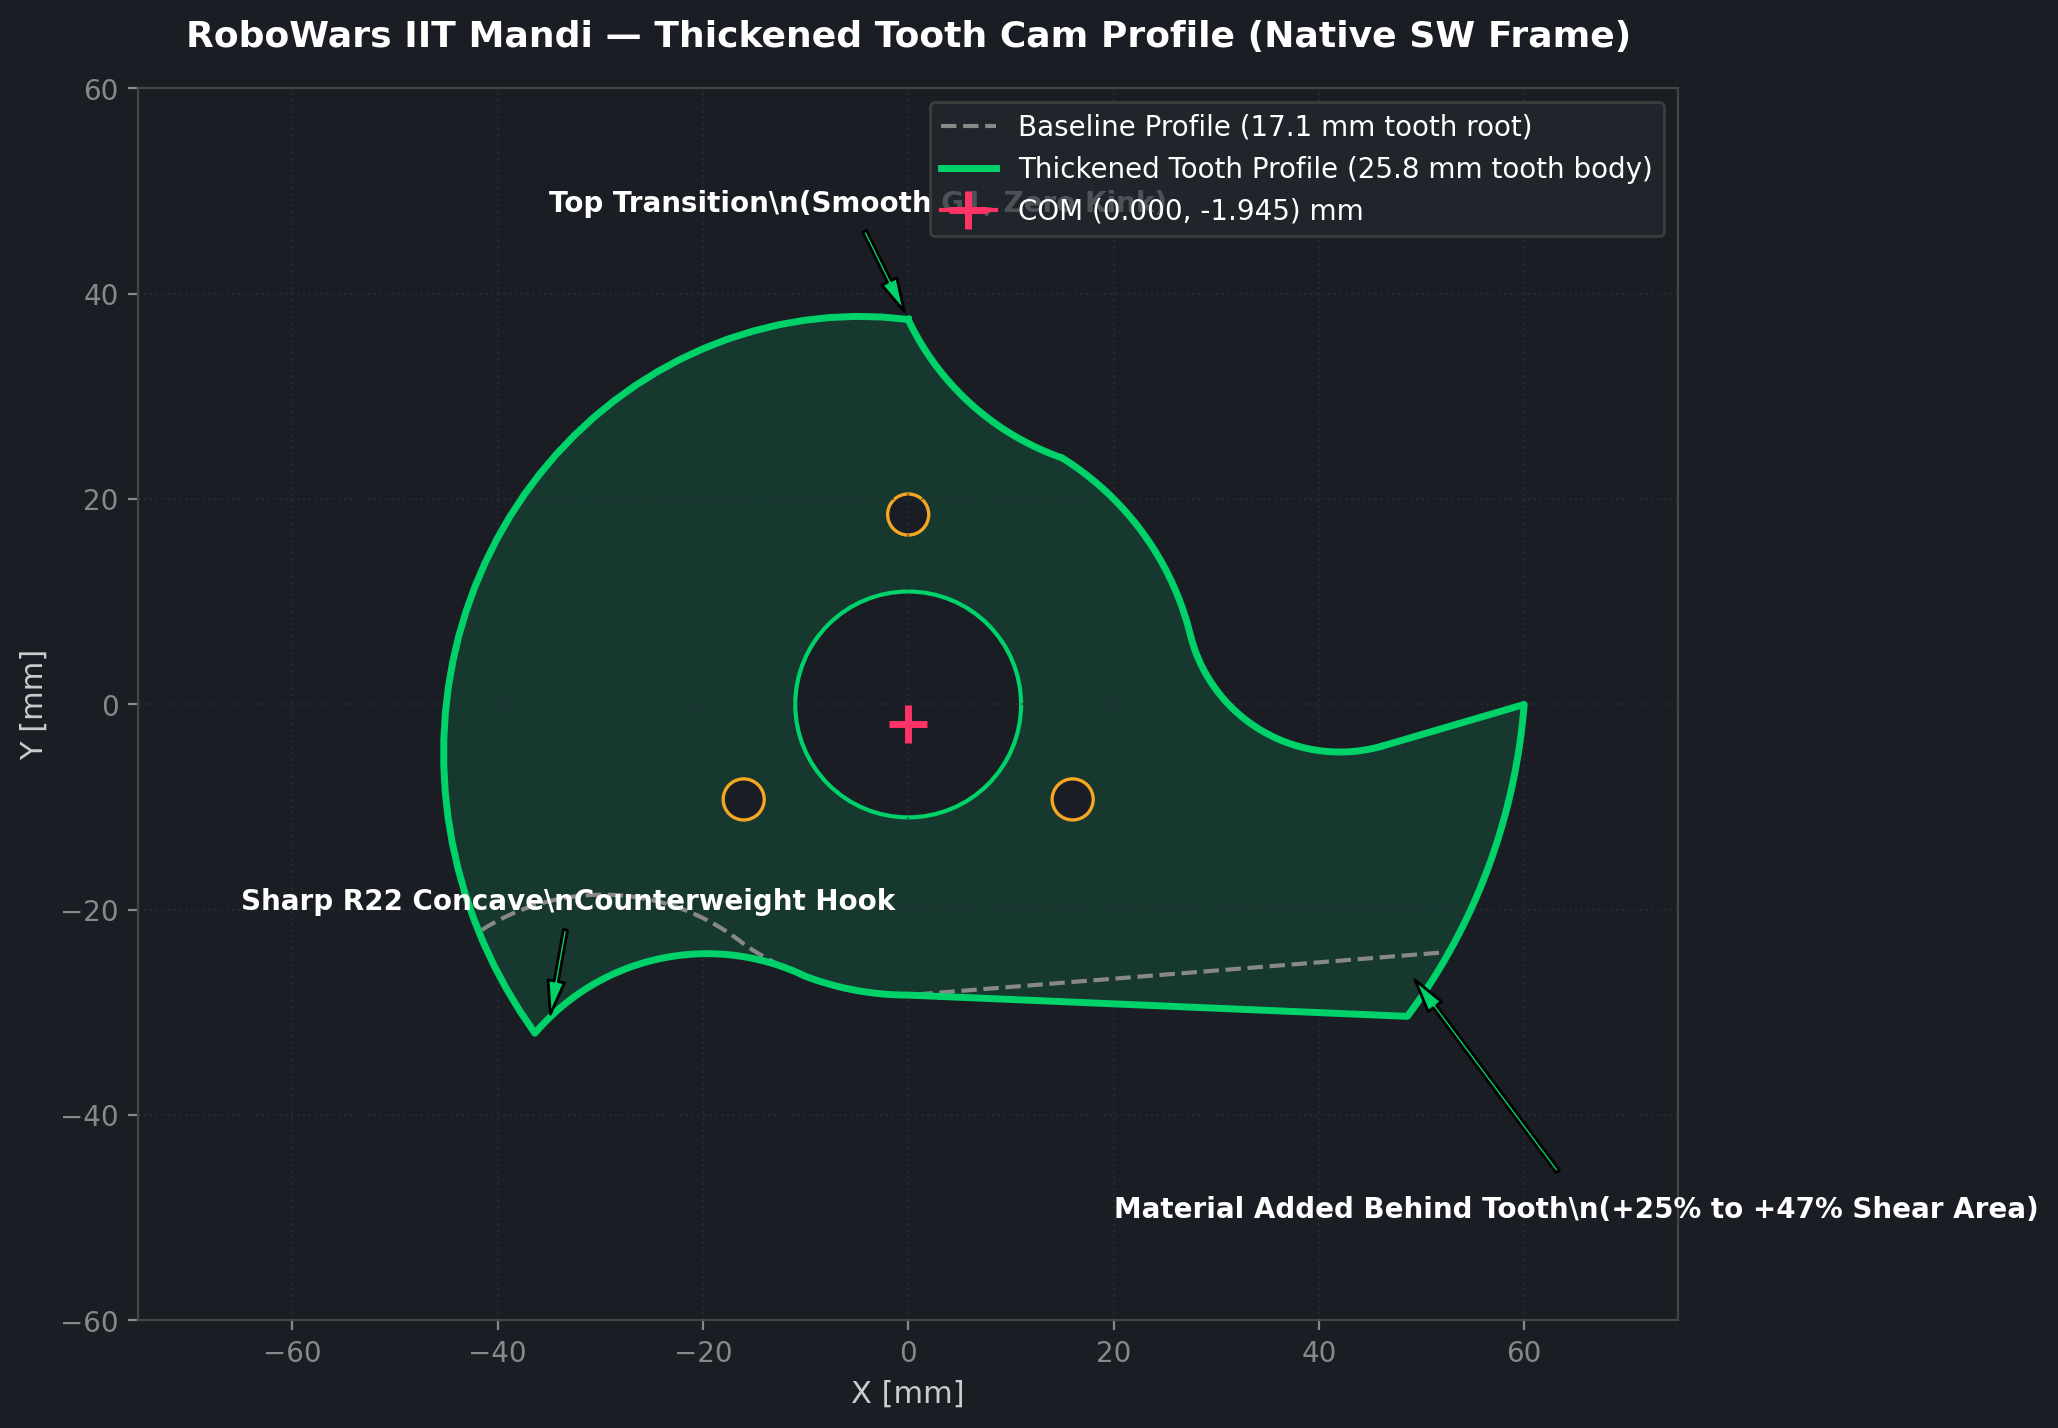
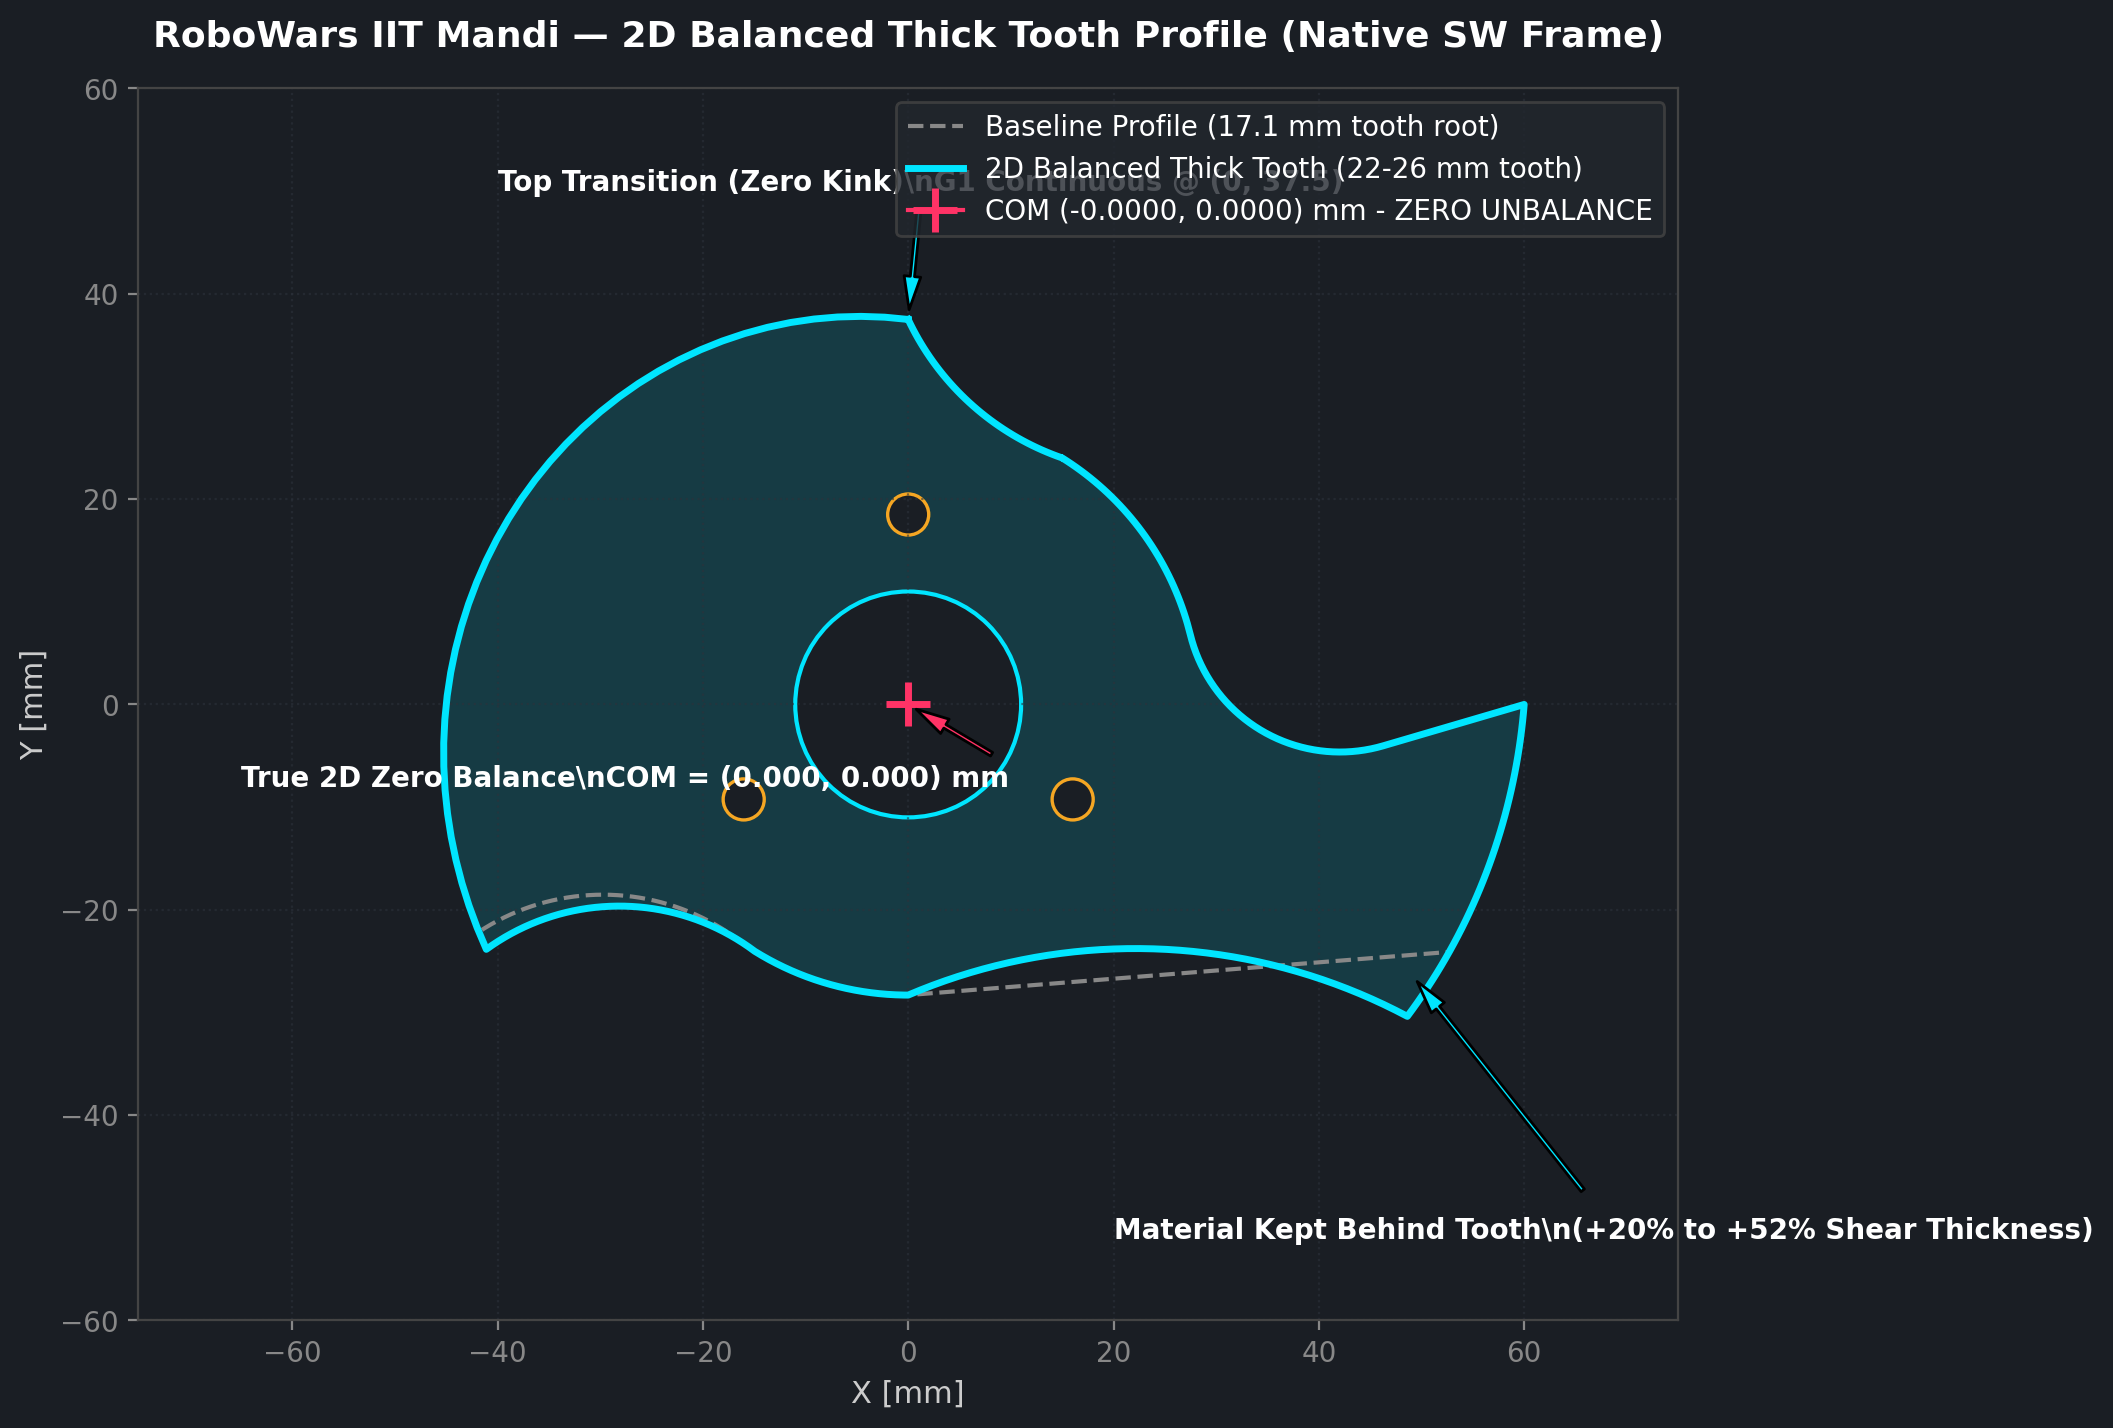
Achieve exact 2D dynamic balance (COM=0,0) while preserving thick tooth backing

diff --git a/profiles/sculpted_spiral_cam_profile_thick_tooth.py b/profiles/sculpted_spiral_cam_profile_thick_tooth.py
@@ -41,14 +41,14 @@ class SculptedSpiralGeometry:
     upper_relief_r: float = 26.00    # Upper-right inward-curving relief arc radius
     lower_hook_r: float = 22.00      # Bottom-left backward-curving hook arc radius
 
-    # Free parameters:
+    # Free balancing parameters (Default: True 2D Balanced State COM = 0.0000, 0.0000 mm):
     deg_right_spiral: float = 328.00 # Tooth trailing edge wrap angle (328° = thick tooth matching SolidWorks)
-    balance_param: float = 221.3731  # CW outer spiral wrap termination angle (deg)
-    bot_arc_sagitta: float = 0.00    # 0.0 for straight bottom line; >0 for 2D balance
+    balance_param: float = 210.1343  # CW outer spiral wrap termination angle (deg)
+    bot_arc_sagitta: float = 5.5269  # Arched bottom relief sagitta yielding exact 2D zero-unbalance
 
     align_tooth_to_plus_y: bool = False  # False = native SolidWorks frame; True = combat spinner (+Y)
     density: float = 0.00785         # Steel density (g/mm³) - EN24 / 4340
-    thickness: float = 44.17         # Auto-sized to hit 1500 g target mass (for Ø22 bore)
+    thickness: float = 47.77         # Auto-sized to hit 1500 g target mass (for Ø22 bore)
 
     def _spiral_r(self, t: float) -> float:
         """Archimedean spiral radius R(t) = R_inner + (R_outer - R_inner) * (t / 2*pi)."""
